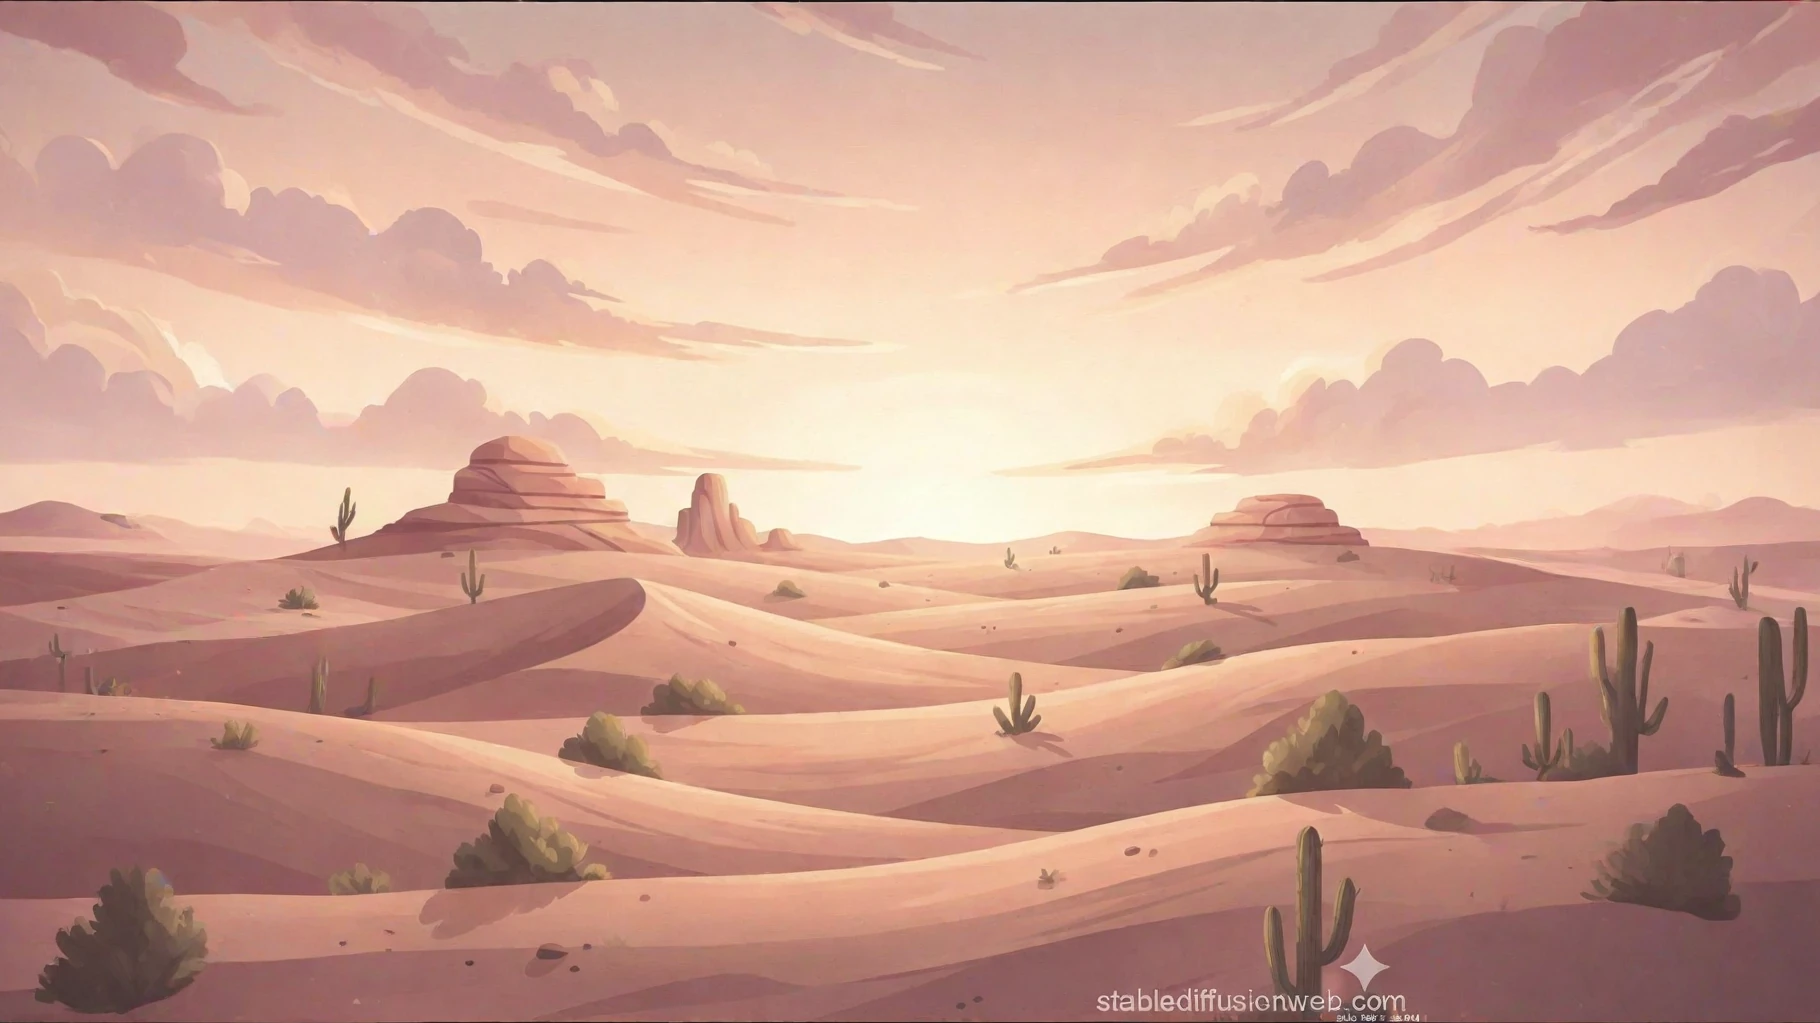
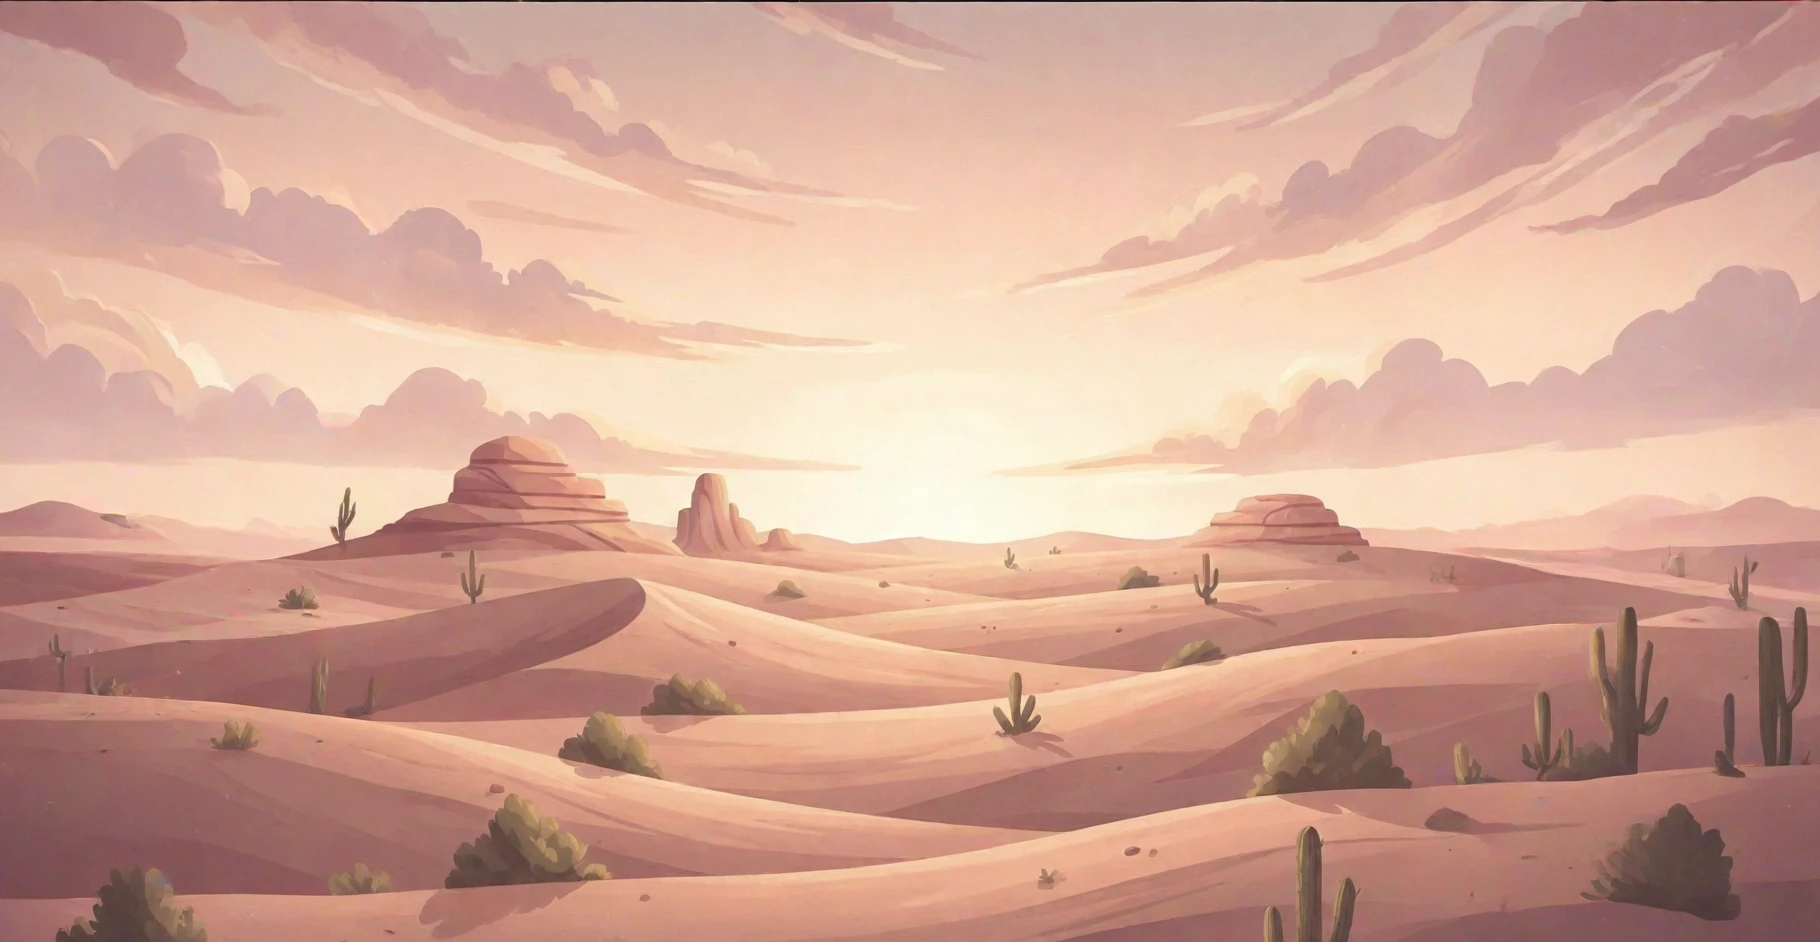
Image problem fixed.

diff --git a/style.css b/style.css
@@ -1,12 +1,21 @@
 body {
+  margin: 0;
+  padding: 0;
   font-family: 'Arial', sans-serif;
-  margin: 0; 
-  background-color: #f0f0f0;
+  /* Arka plan ayarları */
   background-image: url("./assets/desert_expanded.png");
-  background-size: cover;        
-  background-position: center;  
-  background-repeat: no-repeat; 
+  background-color: #fce1c9; /* Resim yüklenmezse diye */
+  background-size: cover;
+  background-position: center;
+  background-attachment: fixed; /* Resim hep sabit kalır */
+  
+  display: flex;
+  justify-content: center;
+  align-items: flex-start; /* Üstten başlasın */
+  min-height: 100vh;
+  overflow-x: hidden; /* Sağa kaydırmayı engelle */
 }
+
 svg { 
   /* width: 800px;
   height: 600px;*/
